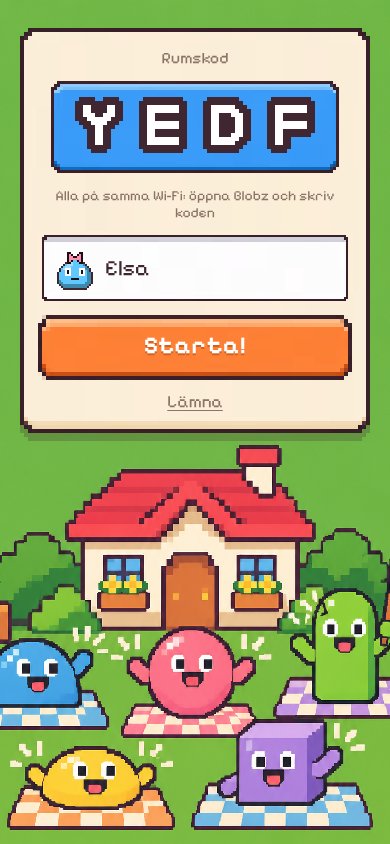
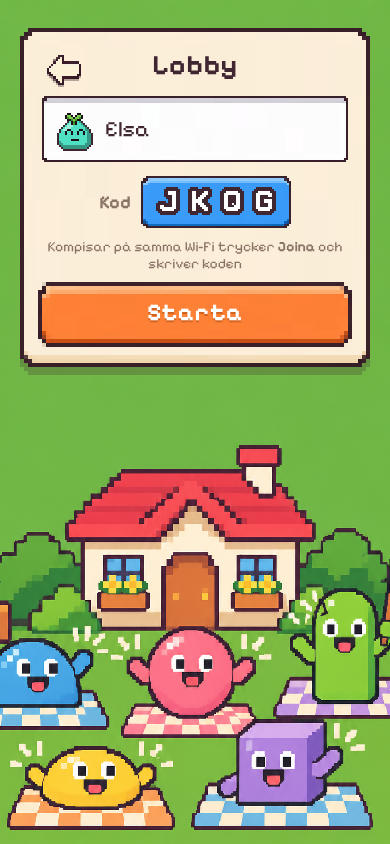
fix(blobz): v018i lobby back arrow, Starta, compact room code
Claude-Session: https://claude.ai/code/session_019PjhQycgBwz4yCtCSZuQS4

Changed region(s): [[0.0308, 0.0616, 0.9538, 0.5237]]

diff --git a/blobz/src/style.css b/blobz/src/style.css
@@ -324,3 +324,24 @@ button.link .icon { height: 18px; margin-right: 6px; vertical-align: -3px; }
   filter: drop-shadow(0 2px 0 #3f263180);
 }
 .opts { padding: 10px 8px 6px 6px; }
+
+/* lobby: back arrow top-left, compact distinct code chip */
+.lobbycard { position: relative; }
+.backbtn {
+  position: absolute; left: 6px; top: 4px; width: 44px; height: 44px; border: 0; padding: 0; background: none; cursor: pointer;
+  display: flex; align-items: center; justify-content: center;
+}
+.backbtn .icon { height: 30px; margin: 0; filter: drop-shadow(0 2px 0 #3f263160); }
+.backbtn:active { transform: translateY(2px); }
+.coderow { display: flex; align-items: center; justify-content: center; gap: 10px; }
+.codelbl { font-weight: 700; font-size: 18px; color: var(--muted); }
+.coderow .code { margin: 0; }
+.coderow .code canvas { border-width: 9px; border-image-width: 9px; padding: 0 2px 2px; }
+@media (orientation: landscape) and (max-height: 520px) {
+  #lobby-list { gap: 6px; }
+  #lobby-list li { font-size: 17px; border-width: 7px; border-image-width: 7px; }
+  #lobby-list .blob { width: 24px; height: 32px; }
+  .lobbycard .tag.small { display: none; }
+  .lobbycard h2 { font-size: 22px; }
+  .lobbycard { gap: 6px; }
+}

diff --git a/blobz/index.html b/blobz/index.html
@@ -73,14 +73,14 @@
 
     <!-- Lobby -->
     <section id="lobby" class="screen hidden">
-      <div class="card">
-        <p class="tag">Rumskod</p>
-        <div id="lobby-code" class="code" aria-live="polite">----</div>
-        <p class="tag small">Alla på samma Wi-Fi: öppna Blobz och skriv koden</p>
+      <div class="card lobbycard">
+        <button id="btn-leave" class="backbtn" aria-label="Tillbaka till menyn"><i data-icon="back"></i></button>
+        <h2>Lobby</h2>
         <ul id="lobby-list"></ul>
-        <button id="btn-start" class="big">Starta!</button>
+        <div class="coderow"><span class="codelbl">Kod</span><div id="lobby-code" class="code" aria-live="polite">----</div></div>
+        <p class="tag small">Kompisar på samma Wi-Fi trycker <b>Joina</b> och skriver koden</p>
+        <button id="btn-start" class="big">Starta</button>
         <p id="lobby-wait" class="msg">Väntar på att värden startar...</p>
-        <button id="btn-leave" class="link">Lämna</button>
       </div>
     </section>
 

diff --git a/blobz/src/main.ts b/blobz/src/main.ts
@@ -96,13 +96,13 @@ function renderIcons() {
   img.onerror = () => logo.replaceChildren(pixelText('BLOBZ', 4));
   logo.replaceChildren(img);
   ['s1', 's2', 's3'].forEach((c) => document.querySelector('#starbar .' + c)!.replaceChildren(GEM()));
-  if (roomCode) $('lobby-code').replaceChildren(pixelText(roomCode, 4, 0));
+  if (roomCode) $('lobby-code').replaceChildren(pixelText(roomCode, 2, 0));
 }
 function setRoomCode(code: string) {
   roomCode = code;
   $('lobby-code').dataset.code = code;
   $('lobby-code').setAttribute('aria-label', 'Rumskod ' + code.split('').join(' '));
-  $('lobby-code').replaceChildren(pixelText(code, 4, 0));
+  $('lobby-code').replaceChildren(pixelText(code, 2, 0));
 }
 
 // ---------- menu panels: home -> (customize | join) ----------

diff --git a/blobz/PROGRESS.md b/blobz/PROGRESS.md
@@ -121,3 +121,8 @@
 ## 2026-11-14 - v018g: neutral selection marker
 - Designer selection no longer uses yellow (a pickable body color): white tile, thick plum frame, green check badge.
 - Star eyes get dark corners so they read on yellow blobz.
+
+## 2026-11-14 - v018i: lobby cleanup
+- "Starta" (no !), back arrow top-left replaces "Lämna", compact code chip with "Kod" label, player list first.
+- Landscape: compact rows so Starta stays on screen with 3+ players (checked in the 3-player run).
+- Proposed next (v019, awaiting go): code-free join list ("Joina Stefan") via public-IP-scoped PeerJS slots.
